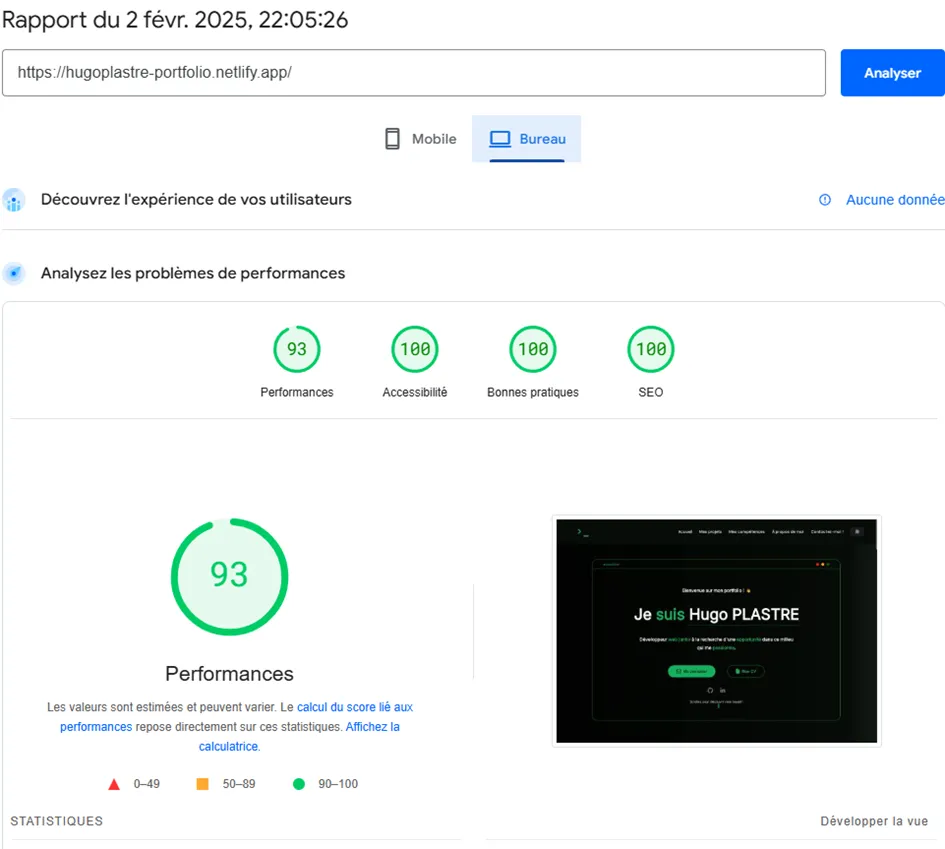
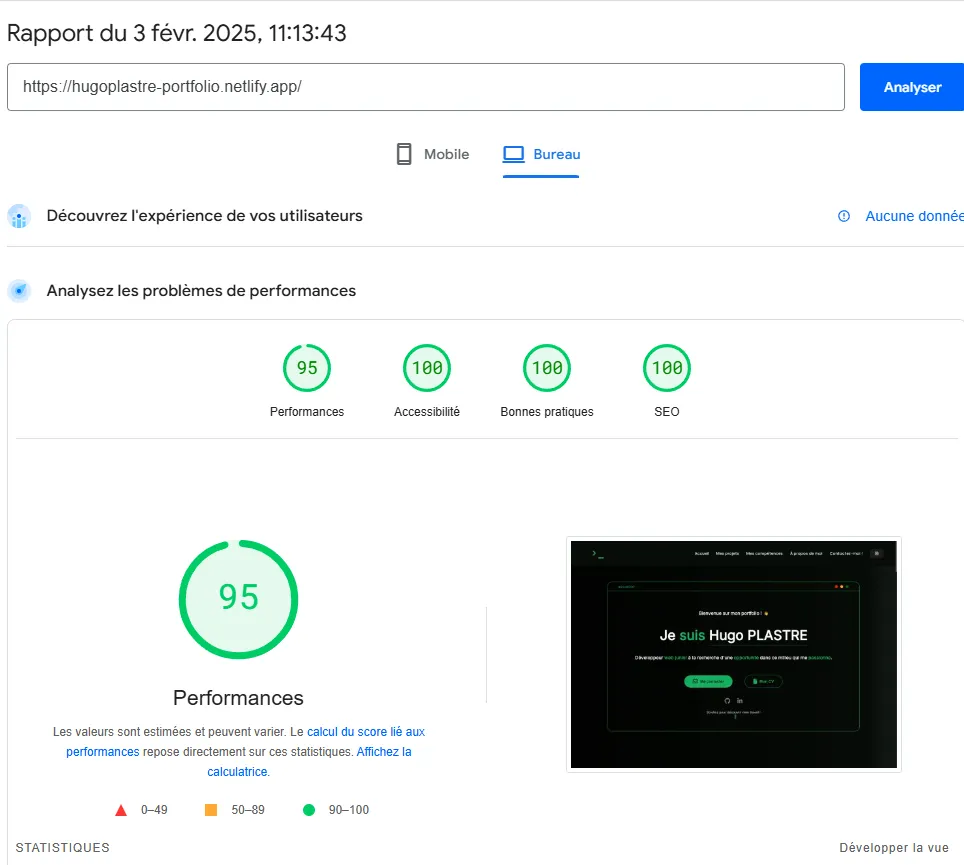
opti done

diff --git a/portfolio-react/src/styles/components/header/_txthome.scss b/portfolio-react/src/styles/components/header/_txthome.scss
@@ -20,6 +20,16 @@
       gap: 10px;
       padding-bottom: 50px;
       h3 {
+        opacity: 0;
+        animation: fadeIn 0.3s ease-out forwards;
+        @keyframes fadeIn {
+          from {
+            opacity: 0;
+          }
+          to {
+            opacity: 1;
+          }
+        }
         @media screen and (max-width: 820px) {
           font-size: 0.9rem;
         }
@@ -29,30 +39,49 @@
         width: 18px;
       }
     }
-    h2 {
-      font-size: 3.5rem;
-      font-weight: bold;
-      line-height: 1.1;
-      display: inline-block;
-      width: fit-content;
-
-      @media screen and (max-width: 820px) {
-        font-size: 2rem;
-      }
-      @media screen and (max-width: 560px) {
-        font-size: 1.5rem;
-      }
-      // @media screen and (max-width: 530px) {
-      //   padding-bottom: 0;
-      // }
-    }
 
     .content-bot {
+      h2 {
+        font-size: 3.5rem;
+        font-weight: bold;
+        line-height: 1.1;
+        display: inline-block;
+        width: fit-content;
+        opacity: 0;
+        animation: fadeIn 0.3s ease-out forwards;
+        @keyframes fadeIn {
+          from {
+            opacity: 0;
+          }
+          to {
+            opacity: 1;
+          }
+        }
+        @media screen and (max-width: 820px) {
+          font-size: 2rem;
+        }
+        @media screen and (max-width: 560px) {
+          font-size: 1.5rem;
+        }
+        // @media screen and (max-width: 530px) {
+        //   padding-bottom: 0;
+        // }
+      }
       h3 {
         // max-width: 650px;
         // margin: 0 auto;
-        line-height: 1.2rem;
+        line-height: 1.2;
         margin: 50px 15px;
+        opacity: 0;
+        animation: fadeIn 0.3s ease-out forwards;
+        @keyframes fadeIn {
+          from {
+            opacity: 0;
+          }
+          to {
+            opacity: 1;
+          }
+        }
         @media screen and (max-width: 820px) {
           font-size: 1rem;
         }
@@ -148,6 +177,16 @@
     .scroll {
       p {
         font-size: 0.8rem;
+        opacity: 0;
+        animation: fadeIn 0.3s ease-out forwards;
+        @keyframes fadeIn {
+          from {
+            opacity: 0;
+          }
+          to {
+            opacity: 1;
+          }
+        }
         @media screen and (max-width: 620px) {
           font-size: 0.65rem;
         }

diff --git a/portfolio-react/src/App.js b/portfolio-react/src/App.js
@@ -1,17 +1,14 @@
 import React from "react";
 import { BrowserRouter, Routes, Route } from "react-router-dom";
 import Home from "./pages/Home";
-import { HelmetProvider } from "react-helmet-async";
 
 const App = () => {
   return (
-    <HelmetProvider>
-      <BrowserRouter>
-        <Routes>
-          <Route path="/" element={<Home />} />
-        </Routes>
-      </BrowserRouter>
-    </HelmetProvider>
+    <BrowserRouter>
+      <Routes>
+        <Route path="/" element={<Home />} />
+      </Routes>
+    </BrowserRouter>
   );
 };
 

diff --git a/portfolio-react/src/styles/settings.scss b/portfolio-react/src/styles/settings.scss
@@ -44,17 +44,15 @@ h3 {
 }
 body {
   text-align: center;
+  min-height: 100vh;
   font-family: $font1;
-  // transition: background-color 0.3s ease, color 0.3s ease;
-  // background: rgb(2, 2, 2);
   background: linear-gradient(
     90deg,
     rgba(2, 2, 2, 1) 0%,
     rgba(8, 11, 9, 1) 91%,
     rgba(17, 23, 19, 1) 97%
   );
-  padding: 0 150px;
-  overflow-x: hidden;
+  padding: 0 10vw;
   color: $white;
   @media screen and (max-width: 1150px) {
     padding: 0 80px;

diff --git a/portfolio-react/src/styles/components/projets/_projets.scss b/portfolio-react/src/styles/components/projets/_projets.scss
@@ -5,6 +5,16 @@
   }
   h2 {
     margin: 60px auto;
+    opacity: 0;
+    animation: fadeIn 0.3s ease-out forwards;
+    @keyframes fadeIn {
+      from {
+        opacity: 0;
+      }
+      to {
+        opacity: 1;
+      }
+    }
   }
   .projets-text {
     height: auto;

diff --git a/portfolio-react/public/index.html b/portfolio-react/public/index.html
@@ -62,7 +62,7 @@
     <meta name="twitter:url" content="https://hp590490.github.io/portfolio/" />
     <meta name="twitter:image" content="./img/HP.png" />
   </head>
-  <body>
+  <body fetchpriority="high">
     <div id="root"></div>
   </body>
 </html>

diff --git a/portfolio-react/src/pages/Home.js b/portfolio-react/src/pages/Home.js
@@ -10,7 +10,6 @@ import Footer from "../components/Footer";
 
 const Home = () => {
   const [isLoading, setIsLoading] = useState(true);
-
   useEffect(() => {
     const timer = setTimeout(() => {
       setIsLoading(false);
